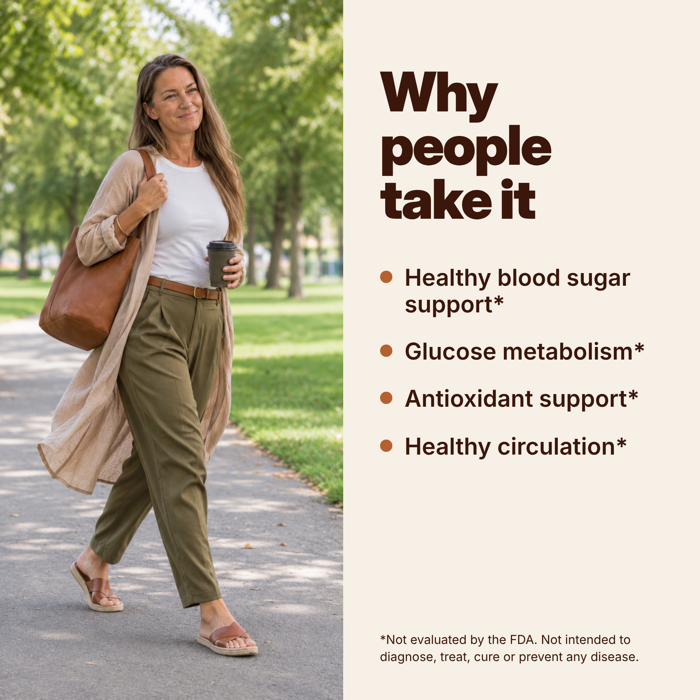
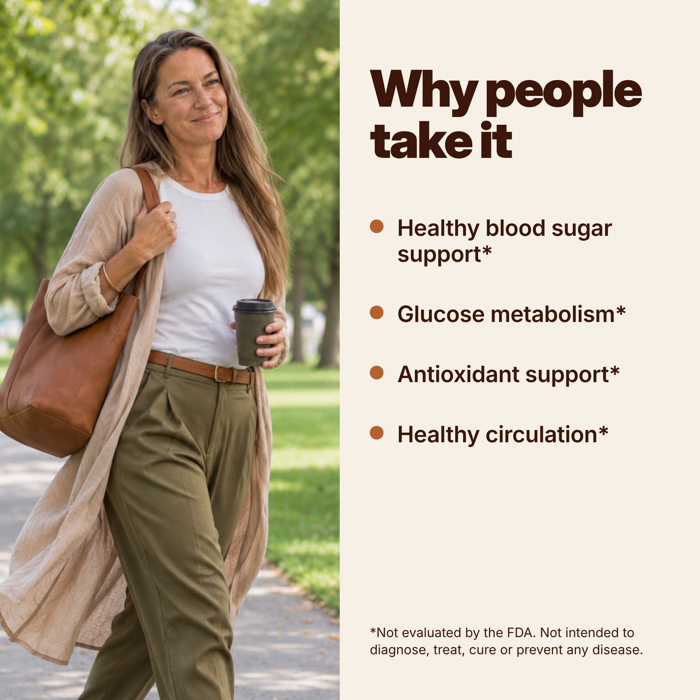
Why-people image v3: original layout, tighter crop
Claude-Session: https://claude.ai/code/session_01WXdKv4Lmy6DFabBeRvSUZr

diff --git a/ceylon-cinnamon/photos/why.html b/ceylon-cinnamon/photos/why.html
@@ -1,13 +1,13 @@
 <!doctype html><html><head><meta charset="utf-8"><style>
 *{margin:0;padding:0;box-sizing:border-box}body{font-family:Inter,sans-serif}
 #s{width:1024px;height:1024px;display:flex;background:#F7F0E6}
-.ph{flex:0 0 49%;background:url(woman-walk.png) center 22%/cover}
-.p{flex:1;padding:96px 50px 50px 54px;display:flex;flex-direction:column;color:#3B160A}
-h1{font-family:"Inter Display",Inter;font-weight:900;font-size:80px;line-height:.98;letter-spacing:-.03em}
-ul{list-style:none;margin-top:56px;display:flex;flex-direction:column;gap:30px}
-li{display:flex;gap:18px;align-items:baseline;font-size:34px;font-weight:600;line-height:1.15}
-li::before{content:"";flex:0 0 18px;height:18px;border-radius:50%;background:#B5612F;transform:translateY(-4px)}
-.d{margin-top:auto;font-size:18px;line-height:1.35;color:#3B160A}
+.ph{flex:0 0 497px;background:url(woman-walk.png) no-repeat;background-size:738px auto;background-position:-102px -70px}
+.p{flex:1;padding:92px 34px 60px 44px;display:flex;flex-direction:column;color:#3B160A}
+h1{font-family:"Inter Display",Inter;font-weight:900;font-size:74px;line-height:1.02;letter-spacing:-.035em}
+ul{list-style:none;margin-top:72px;display:flex;flex-direction:column;gap:50px}
+li{display:flex;gap:20px;align-items:baseline;font-size:33px;font-weight:600;line-height:1.15;letter-spacing:-.01em}
+li::before{content:"";flex:0 0 20px;height:20px;border-radius:50%;background:#B5612F;transform:translateY(-4px)}
+.d{margin-top:auto;font-size:19px;line-height:1.35;color:#3B160A}
 </style></head><body><div id="s"><div class="ph"></div><div class="p">
 <h1>Why people take it</h1>
 <ul><li>Healthy blood sugar support*</li><li>Glucose metabolism*</li><li>Antioxidant support*</li><li>Healthy circulation*</li></ul>

diff --git a/ceylon-cinnamon/CLAUDE.md b/ceylon-cinnamon/CLAUDE.md
@@ -208,3 +208,4 @@ n/v = not publicly verifiable from the pages fetched. Berberine-first brands whe
 - Nov 17: founder photos (dinner couple, guarantee sofa) label-fixed via gpt_image edit: pouch now "30 SOFTGELS", badges GMO FREE + GLUTEN FREE only. Files cn-dinner-couple-v2.png / cn-guarantee-sofa-v2.png at gallery positions 6 and 11; originals detached.
 - Nov 17: founder removed 3- and 5-pouch packshots from the gallery; all 3 variants now use cn-pack-1 (cart shows 1-pouch image for bundles). Gallery = 12 images.
 - Nov 17: dinner photo reframed to 1:1 with headline "The two-second dinner habit." (gpt_image recompose; outpaint attempt zoomed out too far, discarded). File cn-dinner-couple-sq2.png at gallery position 6.
+- Nov 17: "Why people take it" back to the original split layout (cream panel, dots, FDA line) with founder walking photo cropped so she fills the left panel like the old model: photos/why.html -> cn-why-people-v3.png at gallery position 7 (park full-bleed version detached).
